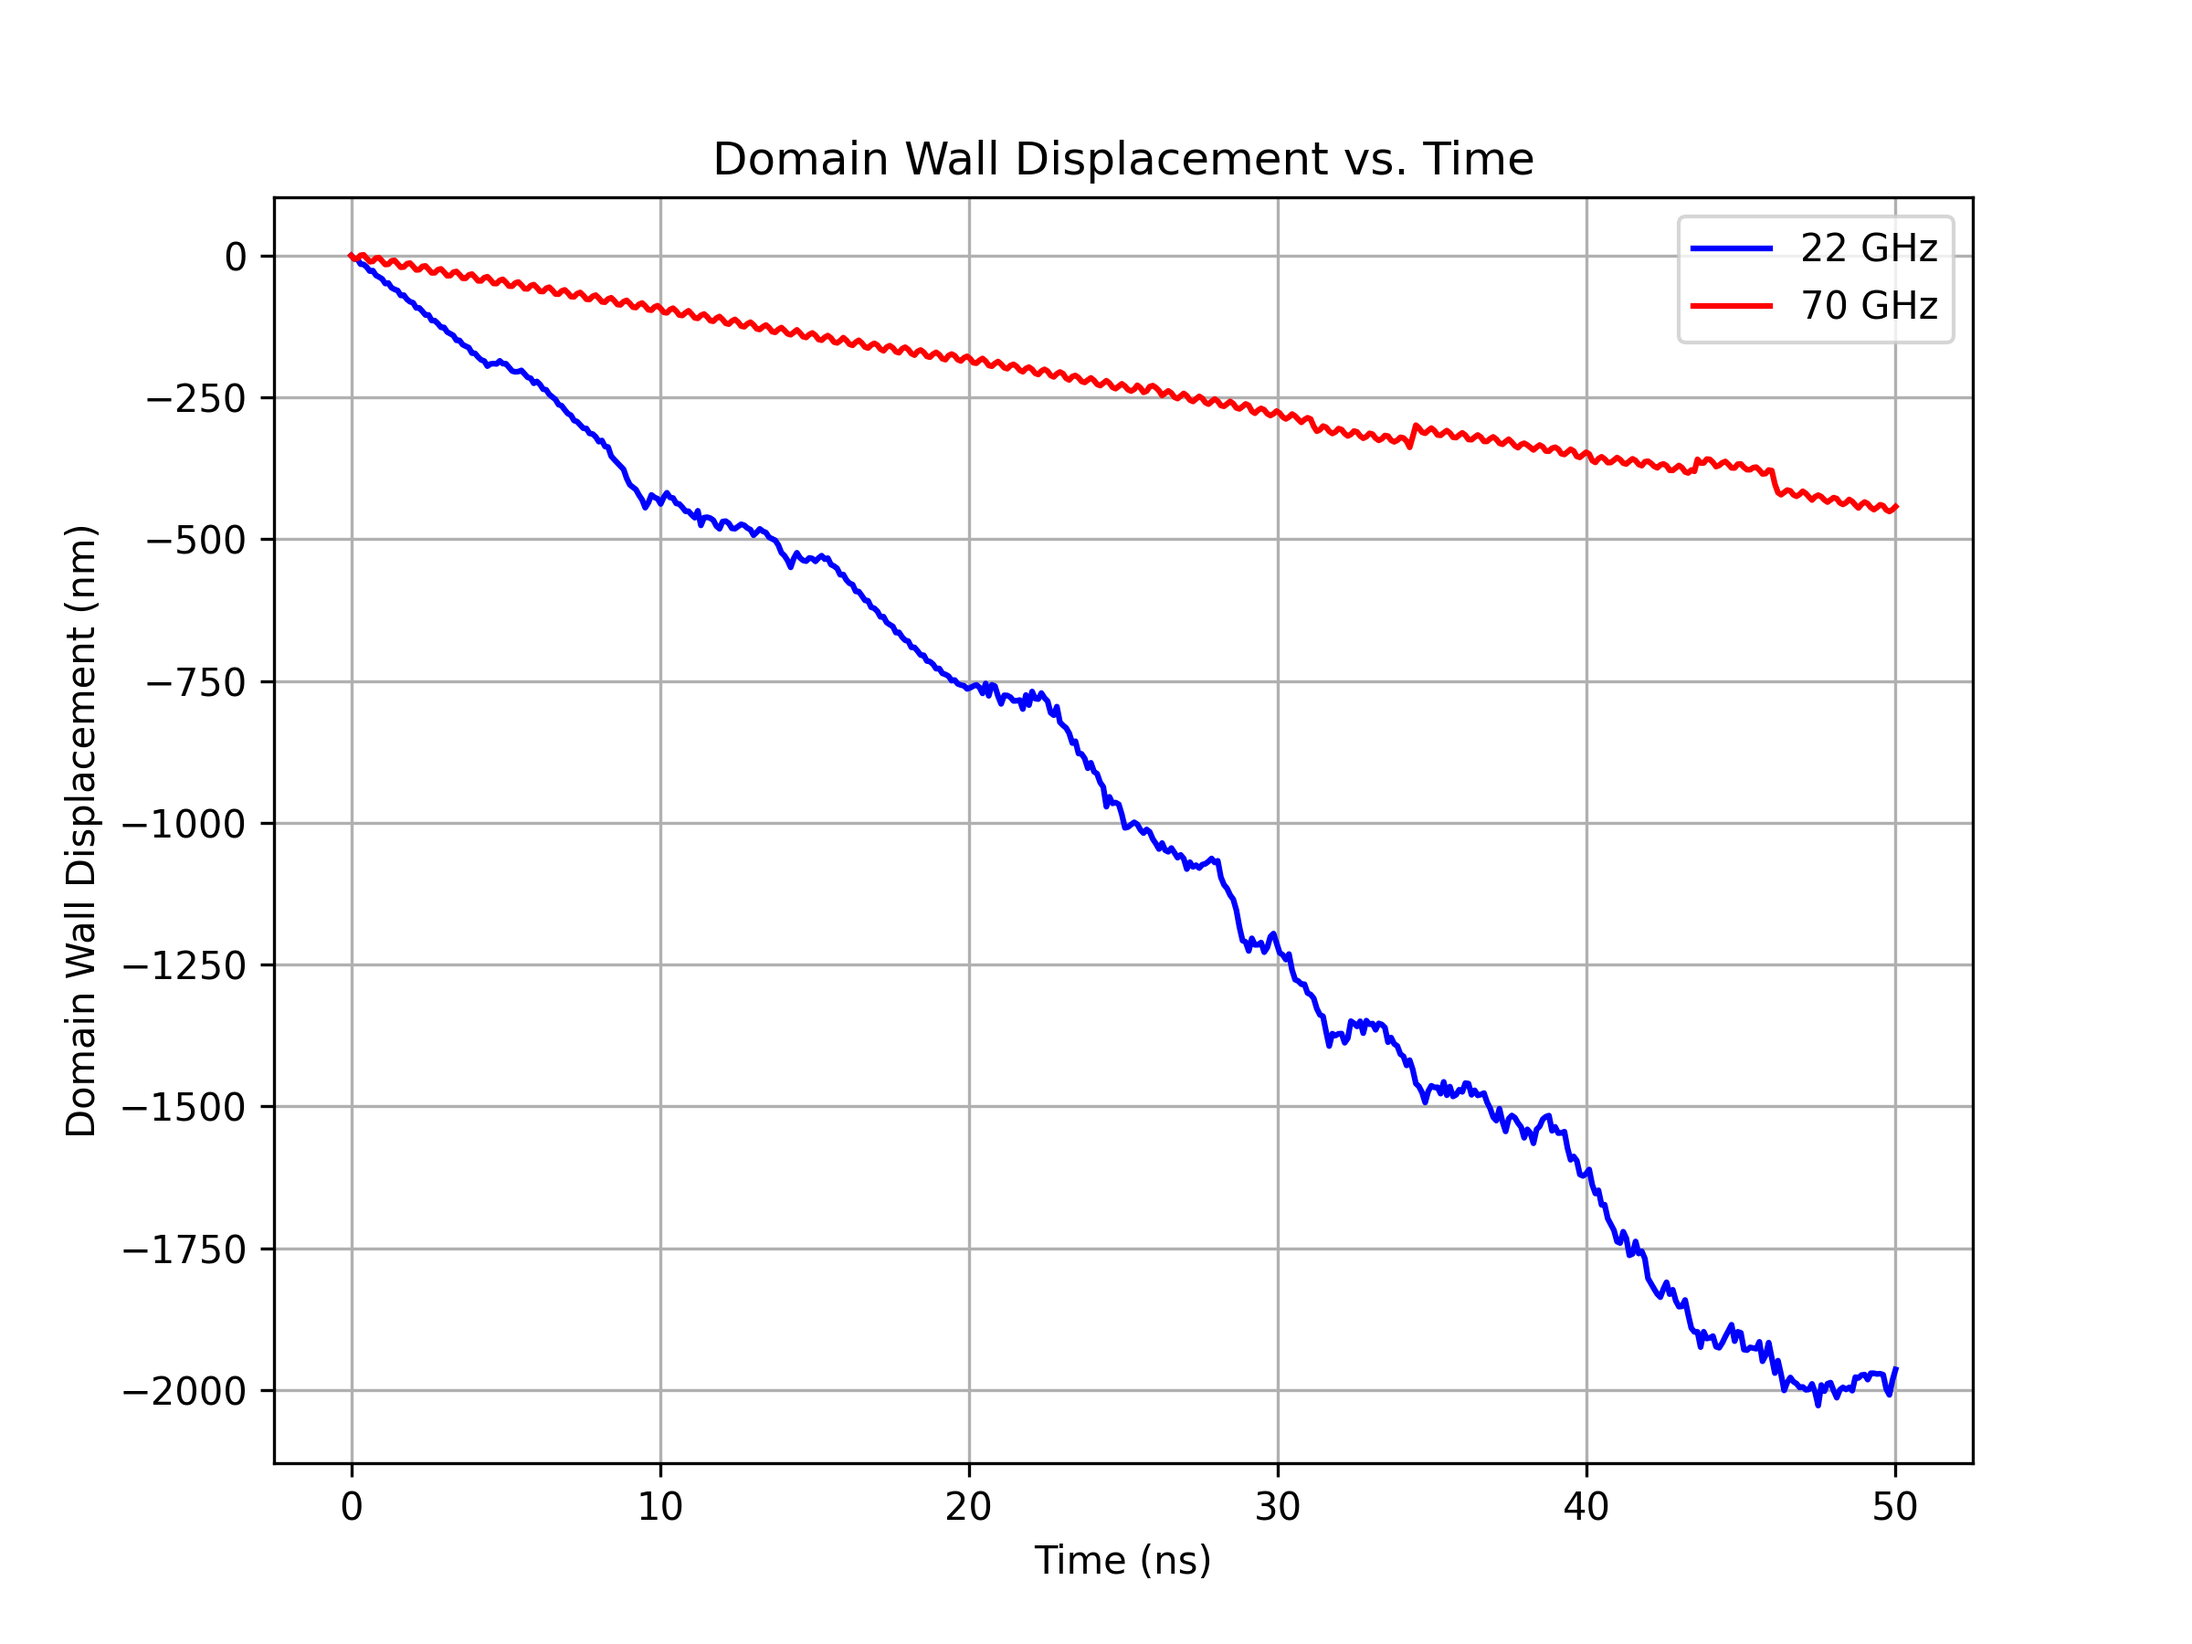
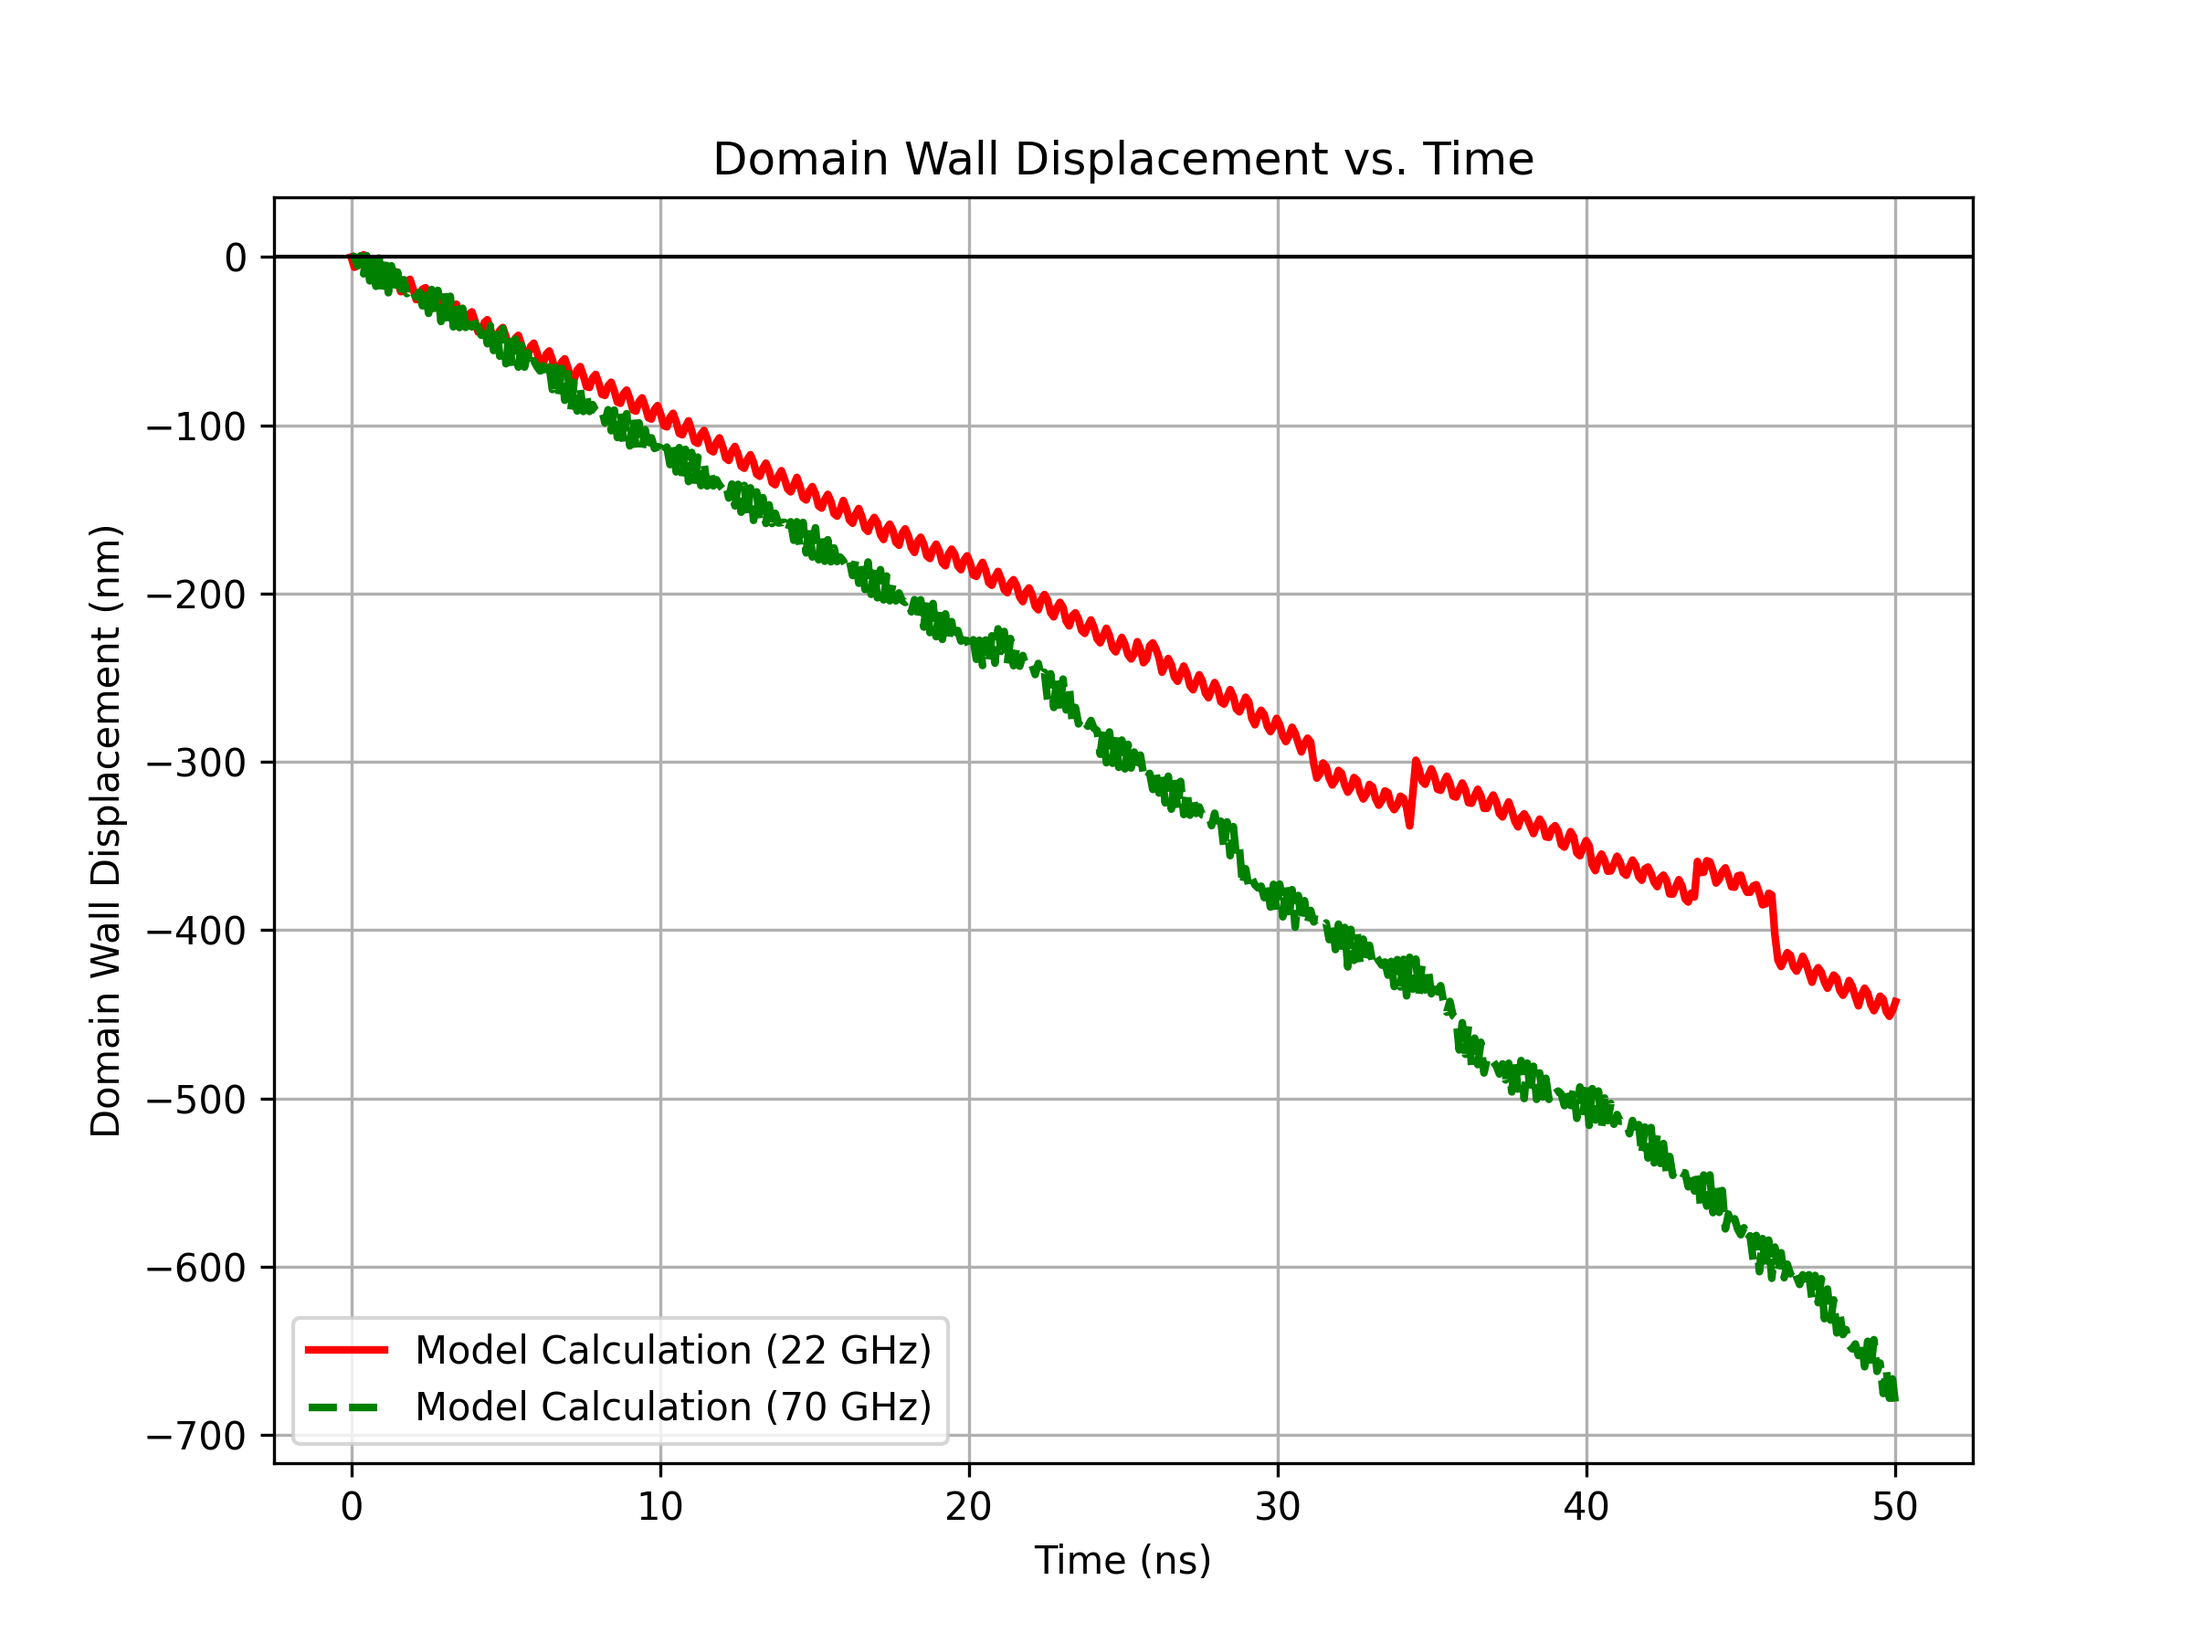
img new

diff --git a/new.py b/new.py
@@ -9,40 +9,45 @@ Kd = 1e3  # Anisotropy constant (J/m^3)
 mu0 = 4 * np.pi * 1e-7  # Permeability of free space (T.m/A)
 Ms = 8e5  # Saturation magnetization (A/m)
 
-# Define driving forces for 22 GHz and 70 GHz
-u_22GHz = 100  # Driving strength for 22 GHz (adjust as needed)
-u_70GHz = 50   # Driving strength for 70 GHz (adjust as needed)
-T = 0.5  # Spin polarization factor (assumed)
+# Driving strengths for different frequencies
+u_22GHz = 50   # Positive displacement effect
+u_70GHz = -30  # Negative displacement effect
+T = 0.5  # Spin polarization factor
 
 # Define the system of equations
 def model_equations(t, y, u):
     X, phi = y
     sin_2phi = np.sin(2 * phi)
-    
+
+    # Model equations based on the given formulas
     dX_dt = (gamma * Kd * mu0 / Ms) * sin_2phi - T * u + (1 - T) * alpha * u
     dPhi_dt = (-gamma * alpha * Kd * mu0 / Ms) * sin_2phi + (1 - T) * u + (T * alpha * u)
-    
+
     return [dX_dt / (1 + alpha**2), dPhi_dt / (1 + alpha**2)]
 
 # Time range
 t_start, t_end = 0, 50  # in nanoseconds
 t_eval = np.linspace(t_start, t_end, 500)
 
-# Solve ODEs for 22 GHz
-y0 = [0, np.pi/4]  # Initial conditions
+# Initial conditions
+y0 = [0, np.pi / 4]  # Initial displacement and angle
+
+# Solve ODEs for 22 GHz (positive displacement)
 sol_22GHz = solve_ivp(model_equations, [t_start, t_end], y0, args=(u_22GHz,), t_eval=t_eval)
 
-# Solve ODEs for 70 GHz
+# Solve ODEs for 70 GHz (negative displacement)
 sol_70GHz = solve_ivp(model_equations, [t_start, t_end], y0, args=(u_70GHz,), t_eval=t_eval)
 
 # Plot results
 plt.figure(figsize=(8, 6))
-plt.plot(sol_22GHz.t, sol_22GHz.y[0], label='22 GHz', color='blue')
-plt.plot(sol_70GHz.t, sol_70GHz.y[0], label='70 GHz', color='red')
+plt.plot(sol_22GHz.t, sol_22GHz.y[0], label='Model Calculation (22 GHz)', color='red', linewidth=2)
+plt.plot(sol_70GHz.t, sol_70GHz.y[0], label='Model Calculation (70 GHz)', color='green', linestyle="dashed", linewidth=2)
 
+# Labels and Title
 plt.xlabel("Time (ns)")
 plt.ylabel("Domain Wall Displacement (nm)")
 plt.title("Domain Wall Displacement vs. Time")
+plt.axhline(0, color='black', linewidth=1)  # Reference line at X=0
 plt.legend()
 plt.grid()
 
